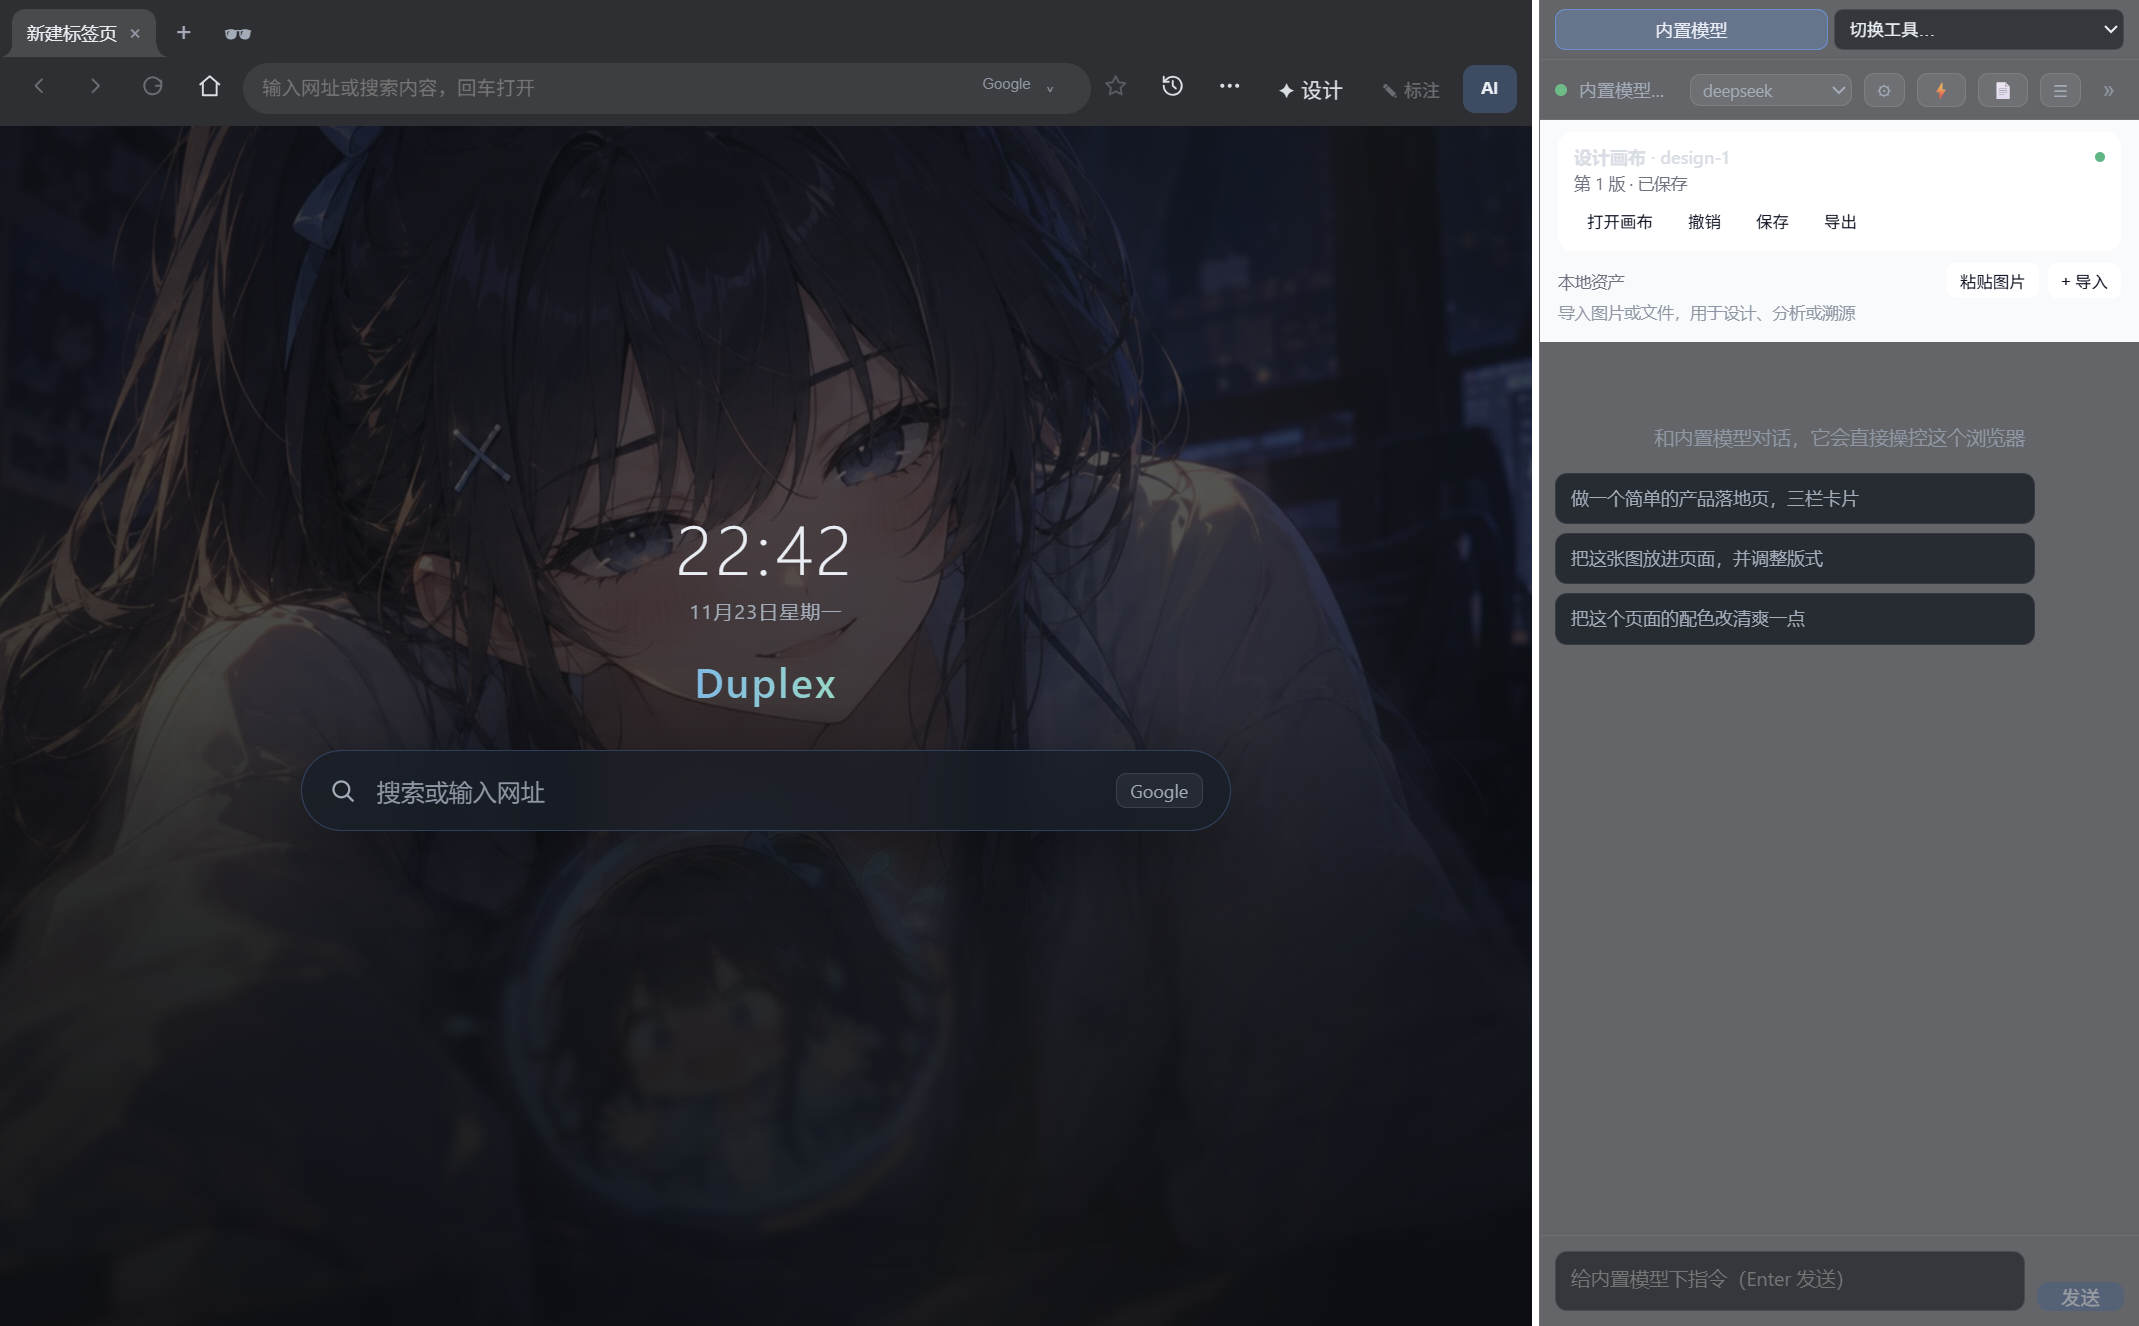
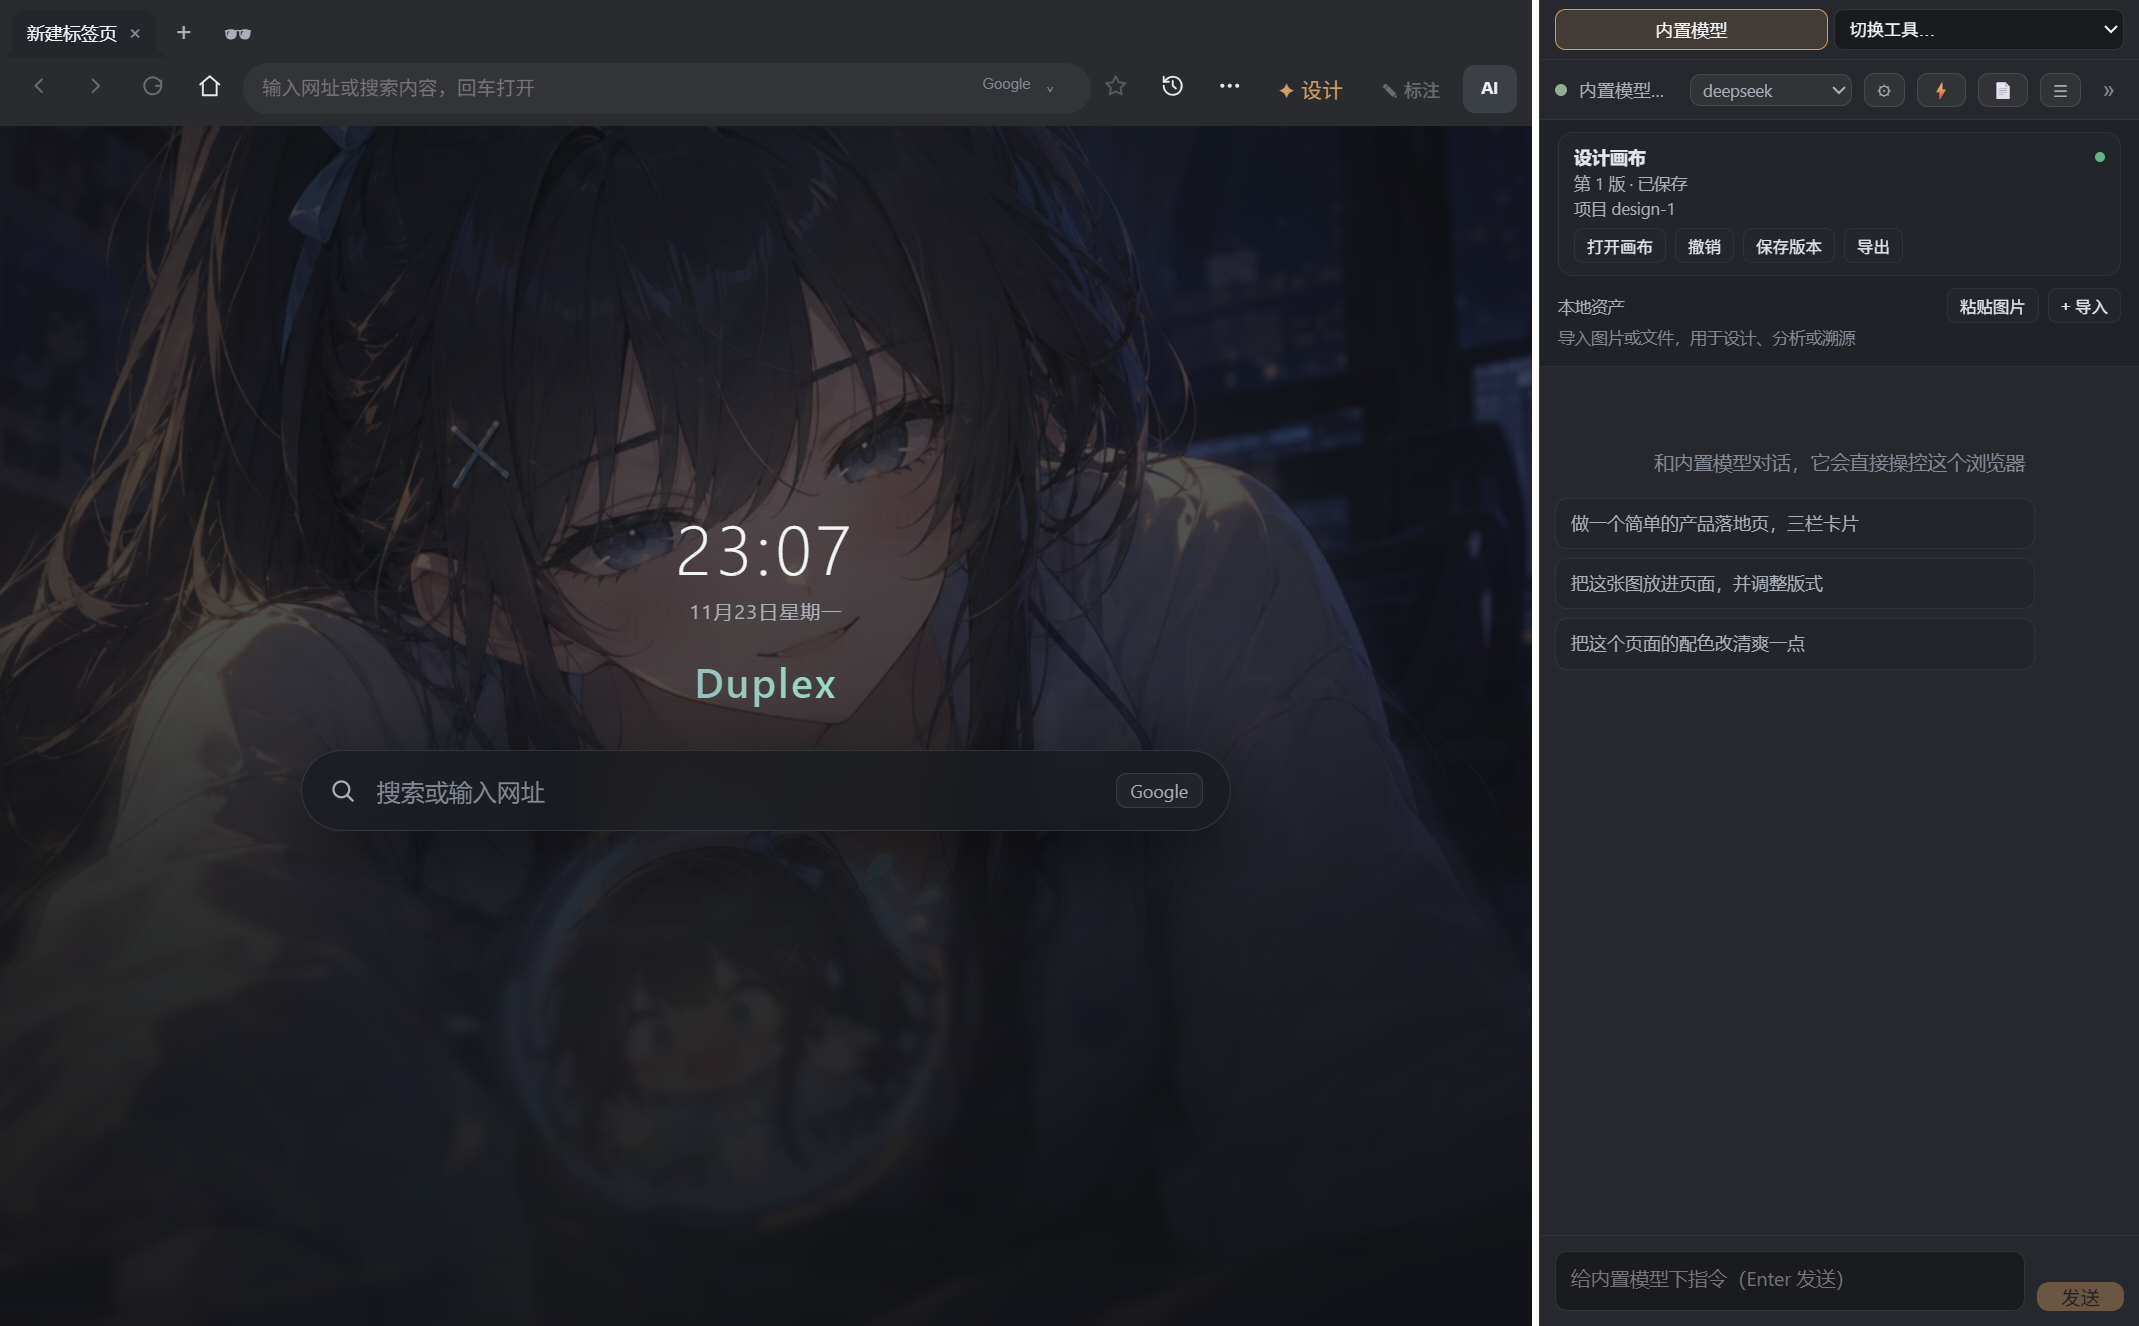
fix(theme): remove the white block in dark mode and add warm accents
The WorkspaceTray used canvas token names (--surface-base / --surface-alt) that
do not exist in the renderer theme, so in dark mode the design card and asset
header fell back to white. They now use --bg-elev / --bg-elev-2 / --text-dim, and
the dark root tokens themselves were re-applied with CRLF-safe replacement (the
first pass had silently missed them, leaving the old blue-black panel tokens).

Warm contrast (muted orange) is introduced in both themes for small, high-intent
parts only: the send button, the active mode segment, the feature toolbar button,
the generation progress bar, asset "insert" hints, dirty dots, hover borders and
selection. Panel opacity is raised so the acrylic backdrop no longer shows as a
grey slab behind the chat.

Verified in the running app: dark panel/tray/card backgrounds are dark
(rgba(24,27,32,.94), rgba(28,32,38,.92), rgba(34,38,44,.92)), send button is
rgb(226,154,92), light send is rgb(196,117,58); screenshots refreshed.

diff --git a/src/renderer/src/styles.css b/src/renderer/src/styles.css
@@ -2,52 +2,56 @@
 
 :root {
   color-scheme: dark;
-  /* surfaces (semi-transparent so the window acrylic shows through) */
-  --bg-app: #0f1216;
-  --bg-content: #0b0e12;
-  --bg-chrome: rgba(32, 34, 38, 0.94);
-  --bg-tab: rgba(255, 255, 255, 0.05);
-  --bg-tab-active: rgba(255, 255, 255, 0.13);
-  --bg-tab-close-hover: rgba(120, 140, 160, 0.45);
-  --bg-btn: rgba(255, 255, 255, 0.07);
-  --bg-btn-hover: rgba(255, 255, 255, 0.13);
-  --bg-input: rgba(13, 18, 23, 0.55);
-  --bg-input-focus: rgba(17, 23, 30, 0.72);
-  --bg-omnibox: rgba(255, 255, 255, 0.07);
-  --bg-omnibox-focus: rgba(255, 255, 255, 0.11);
-  --bg-panel: rgba(17, 21, 26, 0.66);
-  --bg-elev: rgba(24, 30, 38, 0.82);
-  --bg-elev-2: rgba(16, 21, 27, 0.75);
+  /* B · Quiet Graphite：冷灰分层，不靠纯黑 */
+  --bg-app: #141619;
+  --bg-content: #191c20;
+  --bg-chrome: rgba(22, 25, 30, 0.92);
+  --bg-tab: rgba(255, 255, 255, 0.035);
+  --bg-tab-active: #22262c;
+  --bg-tab-close-hover: rgba(120, 140, 160, 0.35);
+  --bg-btn: rgba(255, 255, 255, 0.05);
+  --bg-btn-hover: rgba(255, 255, 255, 0.09);
+  --bg-input: rgba(0, 0, 0, 0.30);
+  --bg-input-focus: rgba(0, 0, 0, 0.38);
+  --bg-omnibox: rgba(255, 255, 255, 0.045);
+  --bg-omnibox-focus: rgba(255, 255, 255, 0.08);
+  --bg-panel: rgba(24, 27, 32, 0.94);
+  --bg-elev: rgba(34, 38, 44, 0.90);
+  --bg-elev-2: rgba(28, 32, 38, 0.80);
   --line: rgba(255, 255, 255, 0.10);
-  --line-soft: rgba(255, 255, 255, 0.07);
+  --line-soft: rgba(255, 255, 255, 0.06);
   --line-strong: rgba(255, 255, 255, 0.16);
-  --text: #d7dde5;
-  --text-strong: #e8eef5;
-  --text-dim: #9fabb8;
-  --text-faint: #8a97a4;
-  --text-fainter: #7b8996;
-  --accent: #4da3ff;
-  --accent-soft: rgba(77, 163, 255, 0.25);
-  --accent-border: rgba(77, 163, 255, 0.6);
-  --btn-primary: #2b5c8f;
-  --btn-primary-hover: #35699f;
-  --btn-primary-text: #eaf2fb;
-  --bubble-user: #1d4a75;
-  --bubble-user-text: #eaf2fb;
-  --bubble-ai: rgba(26, 33, 42, 0.85);
-  --ok: #3fbf7f;
-  --busy: #e8b84b;
-  --err: #e06c6c;
+  --text: #e3e7ed;
+  --text-strong: #f1f4f8;
+  --text-dim: #a6afba;
+  --text-faint: #7f8895;
+  --text-fainter: #67717d;
+  --accent: #8fa6bb;
+  --accent-soft: rgba(143, 166, 187, 0.16);
+  --accent-border: rgba(143, 166, 187, 0.40);
+  --accent-warm: #e29a5c;
+  --accent-warm-strong: #f0b27c;
+  --accent-warm-soft: rgba(226, 154, 92, 0.16);
+  --accent-warm-text: #1a1a1a;
+  --btn-primary: #7e93a6;
+  --btn-primary-hover: #8fa6bb;
+  --btn-primary-text: #101418;
+  --bubble-user: #2f3a45;
+  --bubble-user-text: #dce5ee;
+  --bubble-ai: rgba(34, 38, 44, 0.95);
+  --ok: #8cae95;
+  --busy: #c9a05a;
+  --err: #c97a72;
   --scroll-thumb: rgba(255, 255, 255, 0.16);
-  --shadow-pop: 0 12px 32px rgba(0, 0, 0, 0.4);
-  --start-grad-1: #182535;
-  --start-grad-2: #10151c;
-  --start-grad-3: #0b0e12;
-  --start-glow: 11, 14, 18;
-  --start-search-bg: rgba(22, 29, 38, 0.72);
-  --start-search-bg-focus: rgba(24, 32, 42, 0.85);
-  --start-shadow: 0 18px 50px rgba(0, 0, 0, 0.35);
-  --menu-bg: rgba(22, 28, 36, 0.96);
+  --shadow-pop: 0 12px 32px rgba(0, 0, 0, 0.50);
+  --start-grad-1: #1b1f24;
+  --start-grad-2: #15181c;
+  --start-grad-3: #101317;
+  --start-glow: 16, 19, 23;
+  --start-search-bg: rgba(22, 26, 31, 0.72);
+  --start-search-bg-focus: rgba(26, 31, 37, 0.88);
+  --start-shadow: 0 18px 50px rgba(0, 0, 0, 0.45);
+  --menu-bg: rgba(26, 30, 36, 0.96);
 }
 
 @media (prefers-color-scheme: light) {
@@ -66,9 +70,9 @@
     --bg-input-focus: rgba(255, 253, 249, 0.94);
     --bg-omnibox: rgba(80, 65, 48, 0.055);
     --bg-omnibox-focus: rgba(255, 253, 249, 0.94);
-    --bg-panel: rgba(248, 243, 235, 0.72);
+    --bg-panel: rgba(248, 243, 235, 0.92);
     --bg-elev: rgba(255, 252, 246, 0.92);
-    --bg-elev-2: rgba(252, 247, 239, 0.78);
+    --bg-elev-2: rgba(252, 247, 239, 0.92);
     --line: rgba(70, 55, 40, 0.15);
     --line-soft: rgba(70, 55, 40, 0.09);
     --line-strong: rgba(70, 55, 40, 0.24);
@@ -80,6 +84,10 @@
     --accent: #a06f58;
     --accent-soft: rgba(160, 111, 88, 0.16);
     --accent-border: rgba(160, 111, 88, 0.45);
+    --accent-warm: #c4753a;
+    --accent-warm-strong: #a65f2c;
+    --accent-warm-soft: rgba(196, 117, 58, 0.16);
+    --accent-warm-text: #fff9f2;
     --btn-primary: #8e5f4c;
     --btn-primary-hover: #9c6b56;
     --btn-primary-text: #fff9f2;
@@ -3120,4 +3128,45 @@ button.start-engine:hover {
 @keyframes composer-progress-slide {
   0% { transform: translateX(-100%); }
   100% { transform: translateX(300%); }
+}
+
+
+/* ============ 橙色反差色（关键动作 / 小部件） ============ */
+.send-btn:not(.stop) {
+  background: var(--accent-warm);
+  color: var(--accent-warm-text);
+}
+.send-btn:not(.stop):hover:not(:disabled) {
+  background: var(--accent-warm-strong);
+}
+.mode-bar button.on {
+  background: var(--accent-warm-soft);
+  border-color: var(--accent-warm);
+  color: var(--text-strong);
+}
+.design-btn {
+  color: var(--accent-warm);
+}
+.design-btn:hover {
+  background: var(--accent-warm-soft);
+}
+.composer-progress__bar::after {
+  background: var(--accent-warm);
+}
+.suggestion-btn:hover {
+  border-color: var(--accent-warm);
+  color: var(--text);
+}
+.ws-asset-action {
+  color: var(--accent-warm);
+}
+.ws-export-actions button:hover {
+  color: var(--accent-warm);
+  border-color: var(--accent-warm);
+}
+.ws-dot.dirty {
+  background: var(--accent-warm);
+}
+::selection {
+  background: var(--accent-warm-soft);
 }

diff --git a/src/renderer/src/components/workspace-tray.css b/src/renderer/src/components/workspace-tray.css
@@ -4,13 +4,13 @@
   gap: 8px;
   padding: 8px 12px 10px;
   border-bottom: 1px solid var(--line-soft, #e5e7eb);
-  background: var(--surface-alt, #f8fafc);
+  background: var(--bg-elev-2, #f8fafc);
 }
 
 .ws-card {
   border: 1px solid var(--line-soft, #e5e7eb);
   border-radius: 10px;
-  background: var(--surface-base, #fff);
+  background: var(--bg-elev, #fff);
   padding: 8px 10px;
 }
 
@@ -42,7 +42,7 @@
 .ws-card-meta {
   margin-top: 2px;
   font-size: 11px;
-  color: var(--text-muted, #6b7280);
+  color: var(--text-dim, #6b7280);
 }
 
 .ws-card-actions {
@@ -57,8 +57,8 @@
   padding: 3px 8px;
   border-radius: 6px;
   border: 1px solid var(--line-soft, #e5e7eb);
-  background: var(--surface-base, #fff);
-  color: var(--text-primary, #111827);
+  background: var(--bg-elev, #fff);
+  color: var(--text, #111827);
   cursor: pointer;
 }
 
@@ -75,12 +75,12 @@
   padding: 6px 8px;
   border: 1px solid var(--line-soft, #e5e7eb);
   border-radius: 8px;
-  background: var(--surface-base, #fff);
+  background: var(--bg-elev, #fff);
 }
 
 .ws-export-path {
   font-size: 10px;
-  color: var(--text-muted, #6b7280);
+  color: var(--text-dim, #6b7280);
   overflow: hidden;
   text-overflow: ellipsis;
   white-space: nowrap;
@@ -102,7 +102,7 @@
   align-items: center;
   justify-content: space-between;
   font-size: 11px;
-  color: var(--text-muted, #6b7280);
+  color: var(--text-dim, #6b7280);
 }
 
 .ws-assets-empty {
@@ -127,7 +127,7 @@
   padding: 5px 8px;
   border-radius: 8px;
   border: 1px solid var(--line-soft, #e5e7eb);
-  background: var(--surface-base, #fff);
+  background: var(--bg-elev, #fff);
   cursor: pointer;
   text-align: left;
 }
@@ -152,6 +152,6 @@
 
 .ws-note {
   font-size: 11px;
-  color: var(--text-muted, #6b7280);
+  color: var(--text-dim, #6b7280);
   margin-top: 2px;
 }
